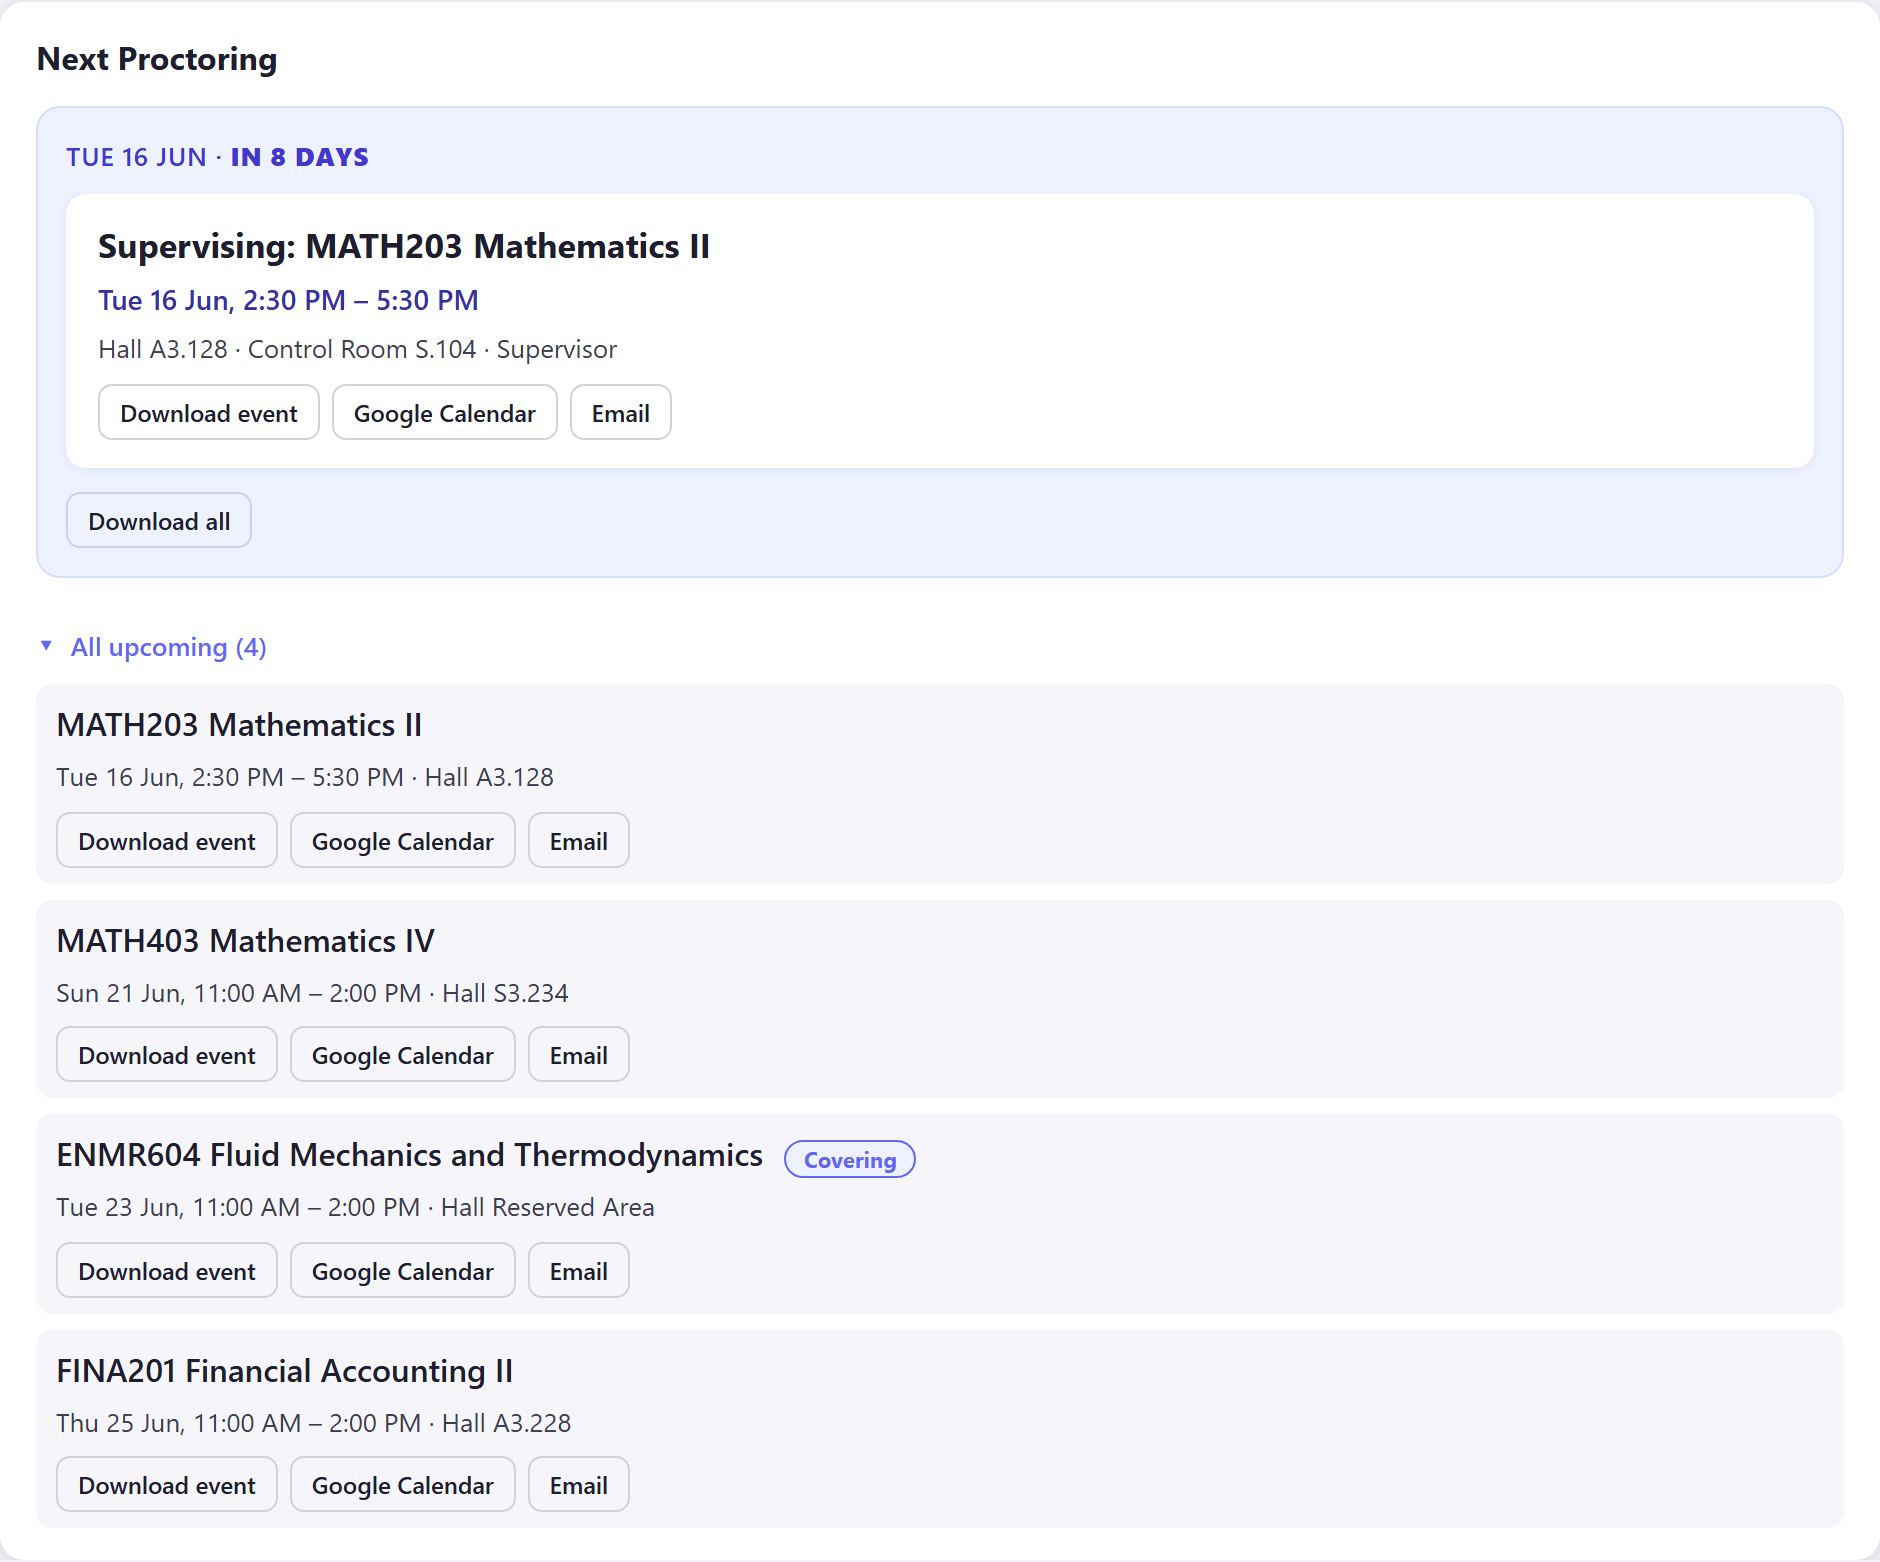
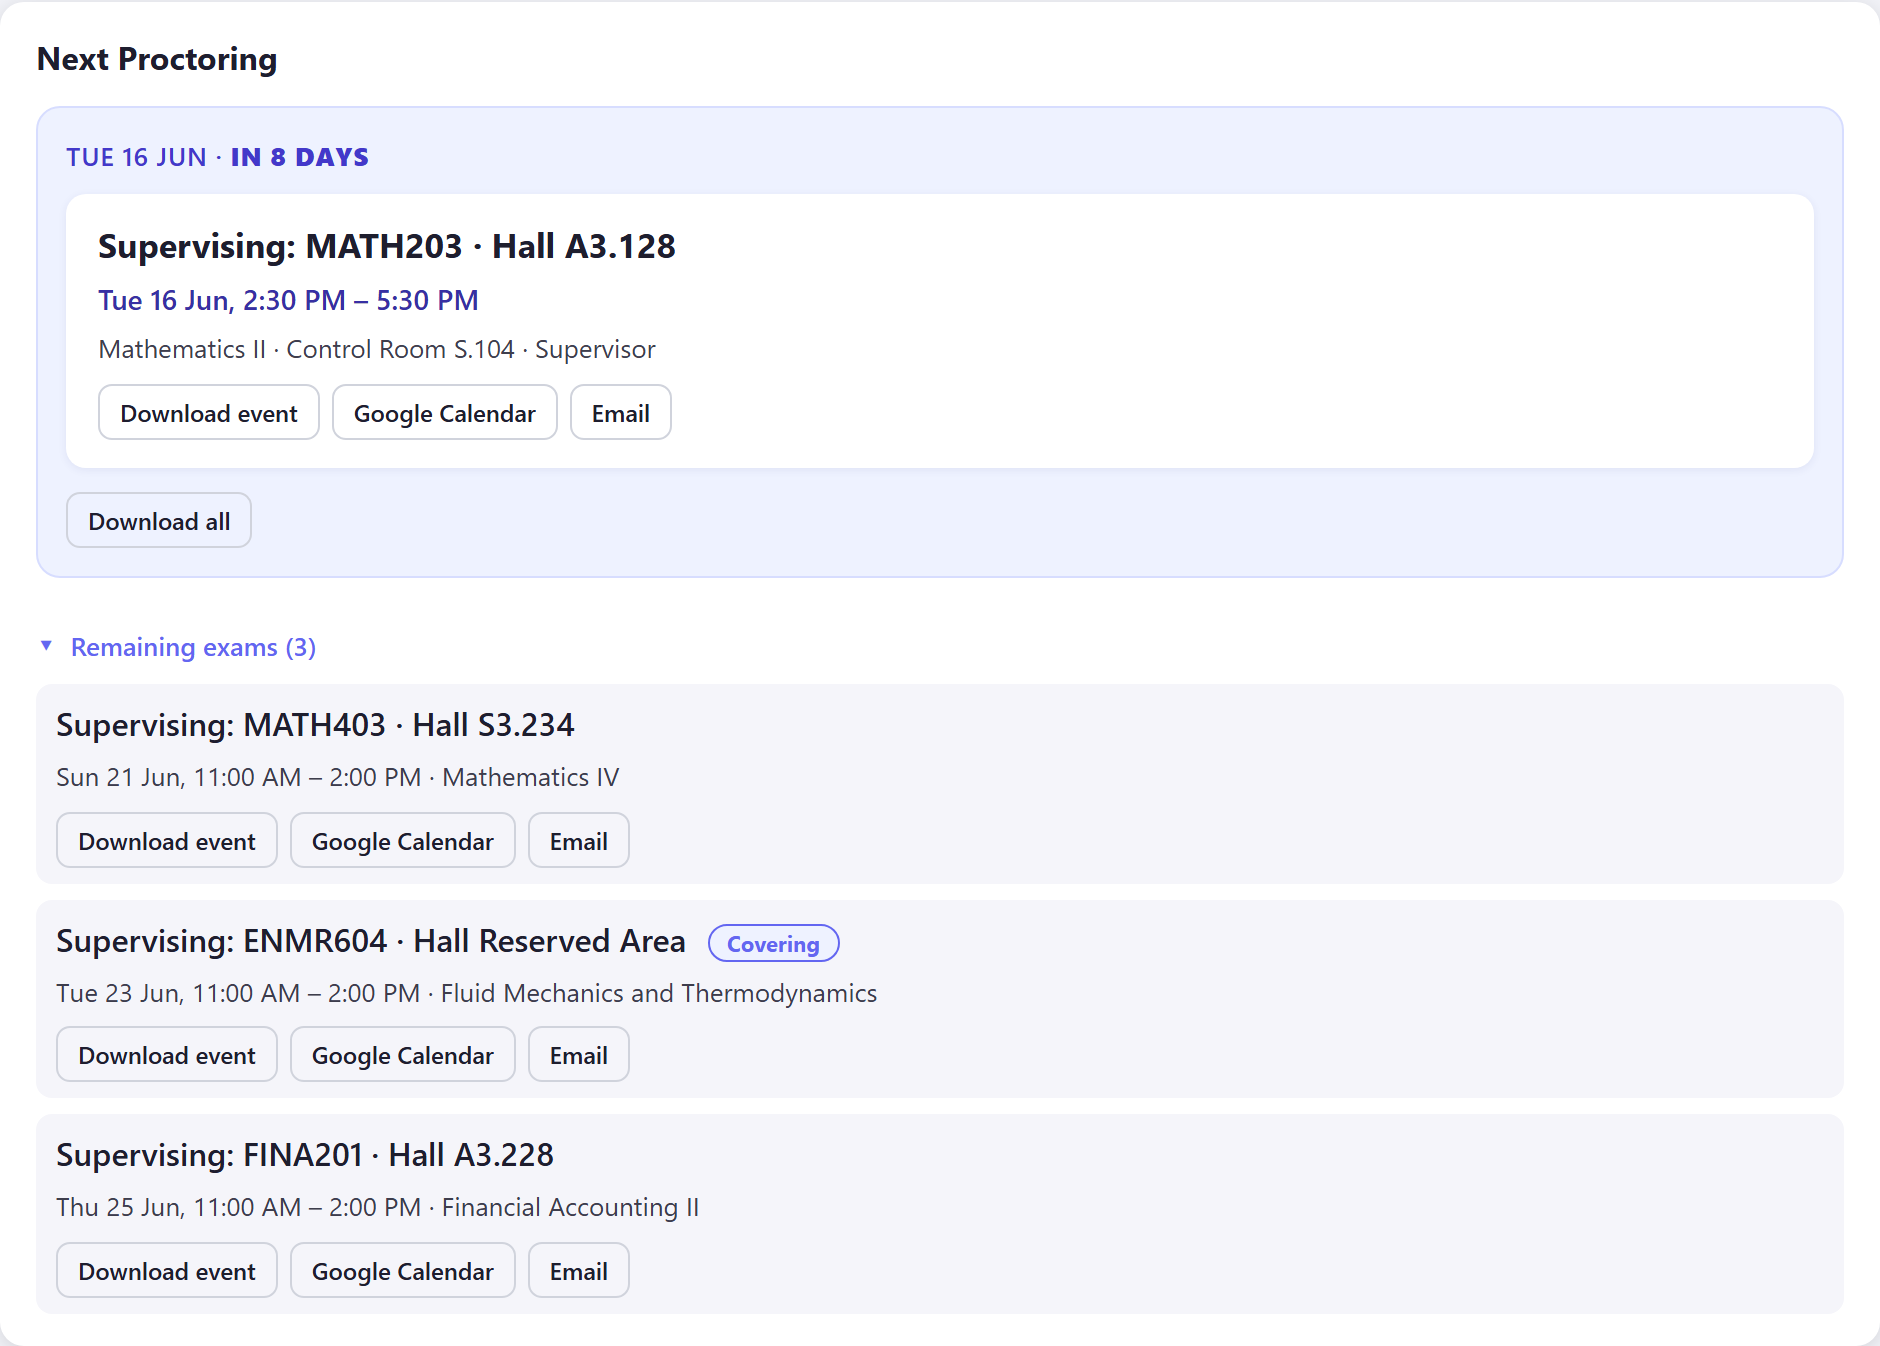
feat(proctoring-reminder): hall-first titles, duty label on list, show remaining exams (exclude next day)

diff --git a/scripts/GIU Proctoring Reminder.js b/scripts/GIU Proctoring Reminder.js
@@ -3,7 +3,7 @@
 // @description Shows your next proctoring session on the portal home page and exports reminders to calendar/email
 // @match       https://portal.giu-uni.de/GIUb/INTStaff/Home.aspx
 // @namespace   ramin0
-// @version     1.5
+// @version     1.6
 // @author      Mo.Elmaadawy
[1 lines of base64/hex data omitted]
 // @run-at      document-idle
@@ -269,13 +269,14 @@
         // All duties sharing the next session's calendar day.
         const nextDay = upcoming.filter(s => s.start.toDateString() === next.start.toDateString());
 
-        const locLine = s => `Hall ${s.hall}${s.type === 'Supervisor' ? ` · Control Room ${s.controlRoom}` : ''} · ${s.type}`;
+        // Exam name + (control room when supervising) + duty type — hall is promoted to the title.
+        const metaLine = s => `${s.examName}${s.type === 'Supervisor' ? ` · Control Room ${s.controlRoom}` : ''} · ${s.type}`;
 
         const nextCard = s => `
             <div class="gius-pr-next-card" data-idx="${upcoming.indexOf(s)}">
-                <div class="gius-pr-next-title">${dutyLabel(s)}: ${s.courseCode} ${s.examName} ${badge(s)}</div>
+                <div class="gius-pr-next-title">${dutyLabel(s)}: ${s.courseCode} · Hall ${s.hall} ${badge(s)}</div>
                 <div class="gius-pr-next-time">${fmtHuman(s.start)} – ${fmtTimeOnly(s.end)}</div>
-                <div class="gius-pr-meta">${locLine(s)}</div>
+                <div class="gius-pr-meta">${metaLine(s)}</div>
                 <div class="gius-pr-actions"></div>
             </div>`;
 
@@ -286,30 +287,36 @@
                 <button type="button" id="gius-pr-ics-all" class="gius-pr-act gius-pr-act-all" title="Download all upcoming as .ics">Download all</button>
             </div>`;
 
-        const listHtml = `
-            <button type="button" id="gius-pr-toggle-all" class="gius-pr-toggle">All upcoming (${upcoming.length})</button>
+        // Exams left after the next session's day (the next block already shows that day).
+        const nextDaySet = new Set(nextDay);
+        const remaining = upcoming.filter(s => !nextDaySet.has(s));
+
+        const listHtml = remaining.length ? `
+            <button type="button" id="gius-pr-toggle-all" class="gius-pr-toggle">Remaining exams (${remaining.length})</button>
             <div id="gius-pr-all" class="gius-pr-expand-wrapper">
                 <div class="gius-pr-expand-inner">
                     <div class="gius-pr-all">
-                        ${upcoming.map((s, i) => `
-                            <div class="gius-pr-row" data-idx="${i}">
-                                <div class="gius-pr-title">${s.courseCode} ${s.examName} ${badge(s)}</div>
-                                <div class="gius-pr-meta">${fmtHuman(s.start)} – ${fmtTimeOnly(s.end)} · Hall ${s.hall}</div>
-                                <div class="gius-pr-actions" data-idx="${i}"></div>
+                        ${remaining.map(s => `
+                            <div class="gius-pr-row" data-idx="${upcoming.indexOf(s)}">
+                                <div class="gius-pr-title">${dutyLabel(s)}: ${s.courseCode} · Hall ${s.hall} ${badge(s)}</div>
+                                <div class="gius-pr-meta">${fmtHuman(s.start)} – ${fmtTimeOnly(s.end)} · ${s.examName}</div>
+                                <div class="gius-pr-actions"></div>
                             </div>`).join('')}
                     </div>
                 </div>
-            </div>`;
+            </div>` : '';
 
         host.innerHTML = `<div class="gius-pr-head">Next Proctoring${opts.stale ? ' · <span class="gius-pr-stale">offline cache</span>' : ''}</div>
             ${nextHtml}${listHtml}`;
 
         const toggleBtn = host.querySelector('#gius-pr-toggle-all');
-        toggleBtn.addEventListener('click', () => {
-            const el = host.querySelector('#gius-pr-all');
-            const open = el.classList.toggle('gius-pr-expanded');
-            toggleBtn.classList.toggle('gius-pr-toggle-open', open);
-        });
+        if (toggleBtn) {
+            toggleBtn.addEventListener('click', () => {
+                const el = host.querySelector('#gius-pr-all');
+                const open = el.classList.toggle('gius-pr-expanded');
+                toggleBtn.classList.toggle('gius-pr-toggle-open', open);
+            });
+        }
 
         host._sessions = upcoming;
         wireExports(host);

diff --git a/README.md b/README.md
@@ -314,7 +314,7 @@ https://portal.giu-uni.de/GIUb/INTStaff/ClassAttendance_ManageStudentAttendances
 
 ### 8. GIU Proctoring Reminder
 
-**File:** `GIU Proctoring Reminder.js` | **Version:** 1.5 | **Author:** Mo.Elmaadawy
+**File:** `GIU Proctoring Reminder.js` | **Version:** 1.6 | **Author:** Mo.Elmaadawy
 
 Shows your next proctoring session on the portal home page and exports reminders to `.ics`, Google Calendar, or email. Fetches your timetable in the background, caches it for 6 hours, and renders a full-width widget directly under the **Target List** block.
 
@@ -331,7 +331,8 @@ https://portal.giu-uni.de/GIUb/INTStaff/Home.aspx
 - **All duties on that day** — if you have more than one duty on the next session's day, every one is shown
 - **Control room** — shown only for supervisor duties (where it's relevant)
 - **Covering badge** — cover duties (exams you took from a colleague) are tagged "Covering"; your own duties are shown plain
-- **All upcoming list** — expand (animated slide) to see every future proctoring duty in chronological order, each with its full start–end time (12-hour AM/PM)
+- **Hall-first titles** — each session title leads with the course code and **hall** (where you need to be); the exam name sits on the detail line
+- **Remaining exams** — expand (animated slide) to see the exams left *after* the next session's day, each labelled Supervising/Proctoring with its full start–end time (12-hour AM/PM)
 - **Export per session** — **Download event** (`.ics`), open in **Google Calendar**, or send a reminder **Email** for any individual session
 - **Download all** — one `.ics` file containing all upcoming sessions, each with dual alarms (1 day and 1 hour before)
 - **6-hour cache** — schedule fetched once and cached in `localStorage`; stale data shown with an "offline cache" label until refresh
@@ -340,7 +341,7 @@ https://portal.giu-uni.de/GIUb/INTStaff/Home.aspx
 
 1. Navigate to the GIU staff portal Home page
 2. The widget appears automatically under the Target List
-3. Click **All upcoming** to expand the full session list
+3. Click **Remaining exams** to expand the list of later sessions
 4. Use the export buttons next to any session to add it to your calendar or send yourself a reminder
 5. Click **Download all** to download all upcoming sessions in one calendar file
 